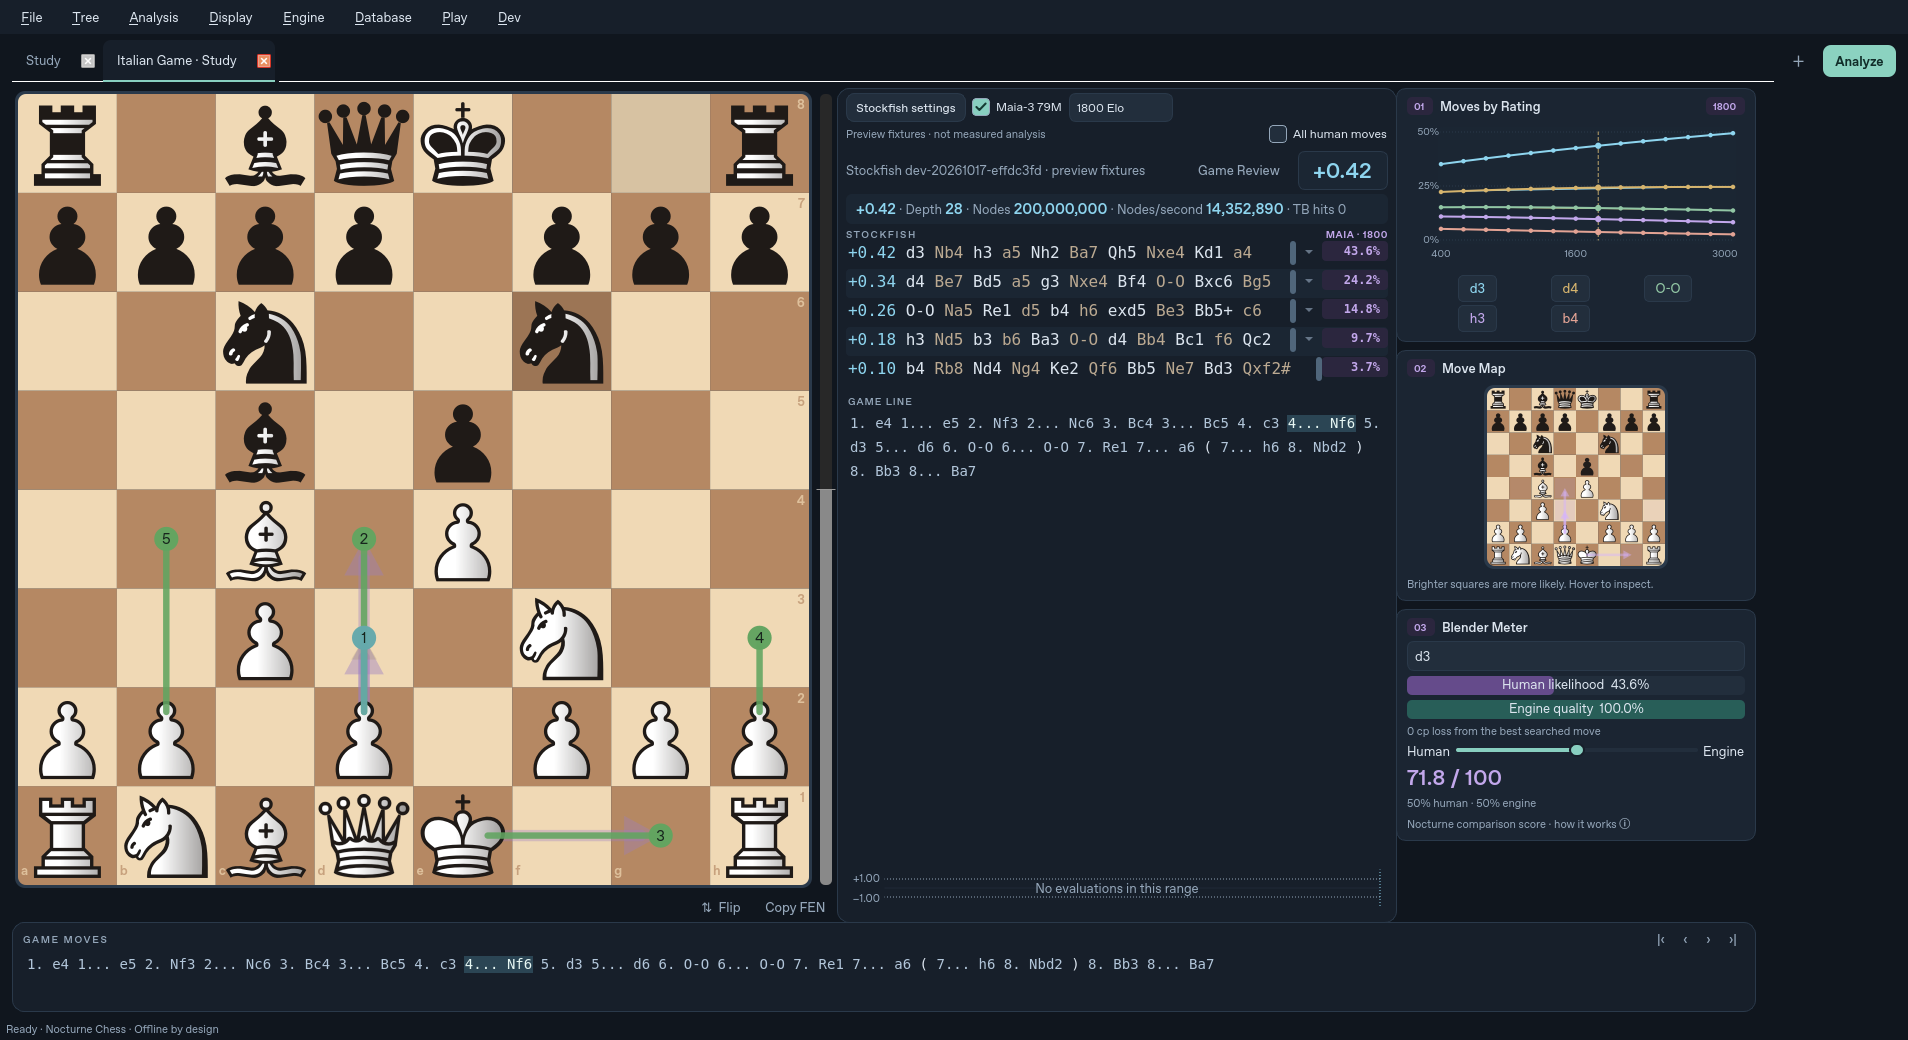
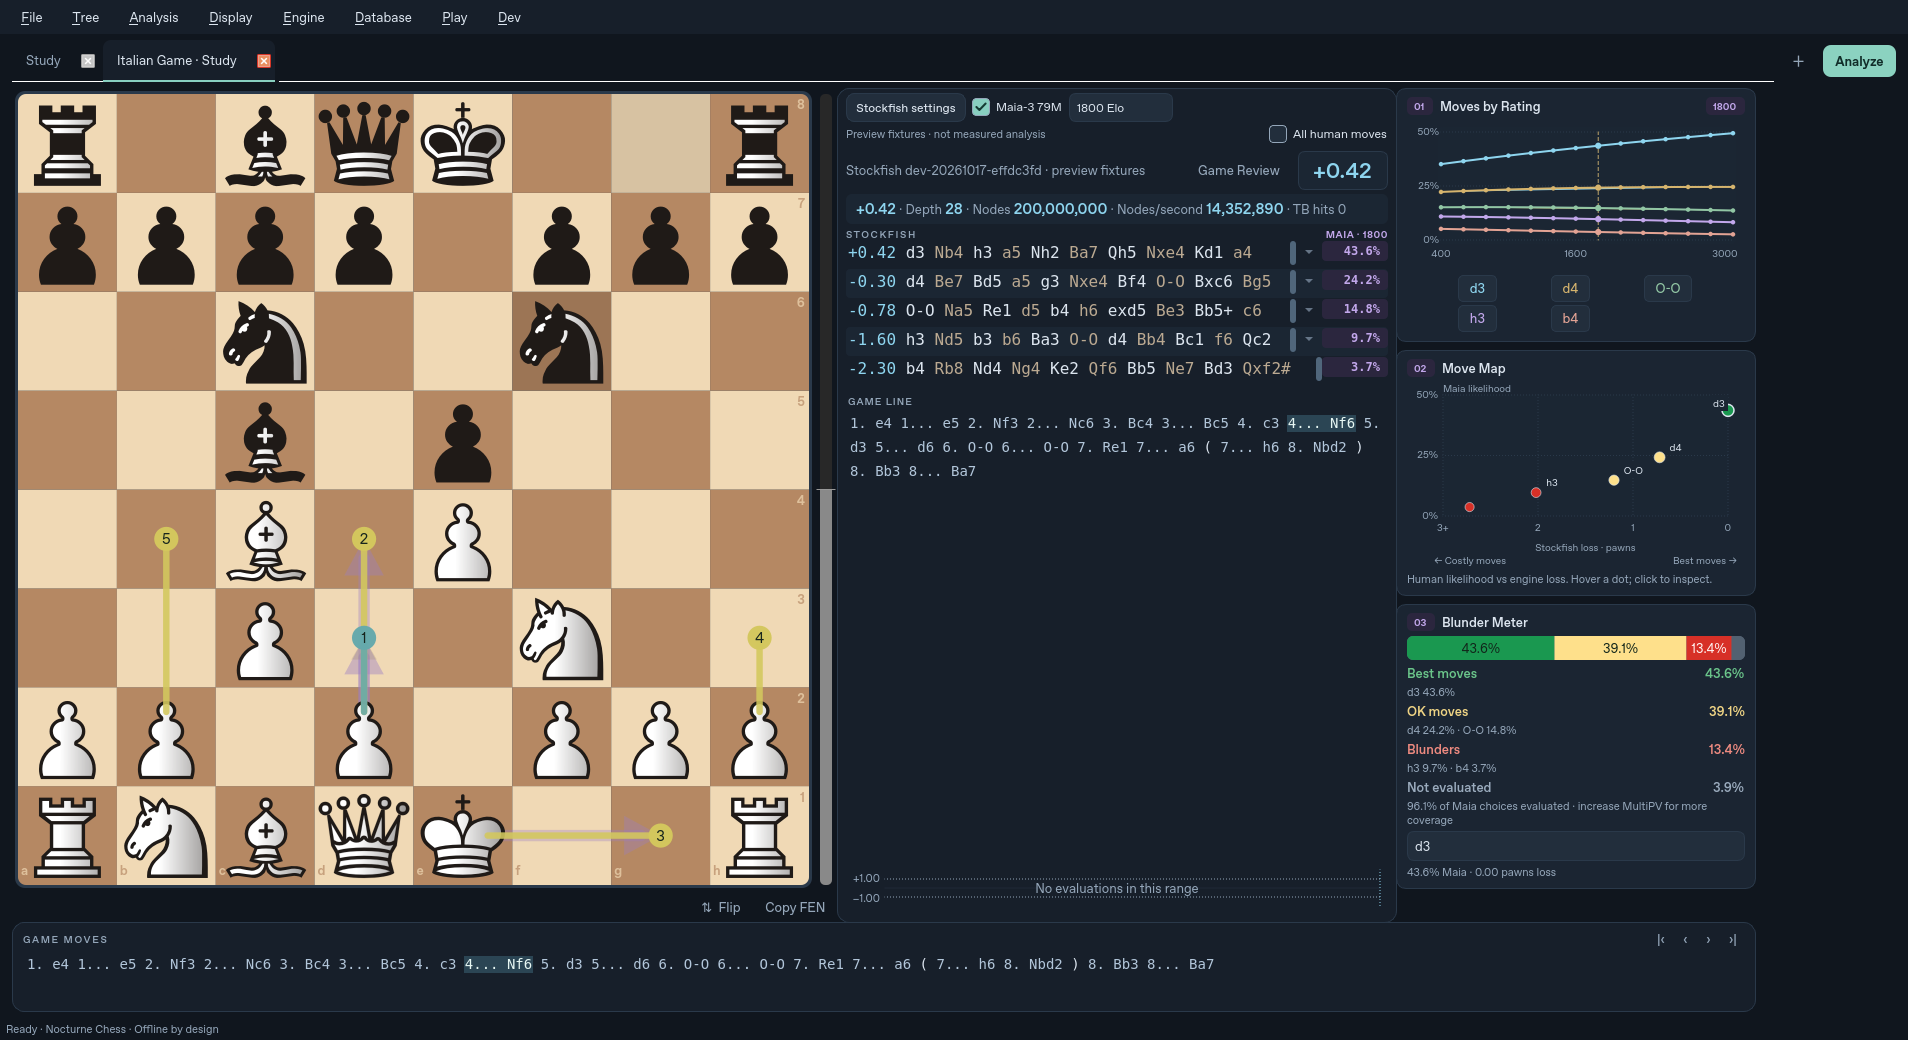
Publish 0.5.7.62 Windows download and Blunder Meter preview

diff --git a/docs/BUILDING.md b/docs/BUILDING.md
@@ -1,5 +1,35 @@
 # Windows 11 desktop builds
 
+## [0.5.7.62 — Download Windows ZIP](https://github.com/understandingothers789-pixel/nocturne-chess/actions/runs/39903683180/artifacts/12480157328)
+
+Extract All, then open **Nocturne/Nocturne.exe**. The executable is unsigned.
+
+Source commit [`9ea262f`](https://github.com/understandingothers789-pixel/nocturne-chess/commit/9ea262fbe8f7f2275b26b6b938167901db5a9d0e)
+replaces the earlier blend comparison with a **Blunder Meter**: a proportional
+green/yellow/red bar, category probabilities and common human choices. Grey
+retains unsearched probability instead of treating moves outside MultiPV as
+blunders or rescaling partial results to 100%. The Move Map becomes a scatter
+plot of Maia likelihood against exact Stockfish loss. Hover shows details;
+clicking selects a move for inspection without playing it. The [Maia guide](MAIA.md)
+documents the 50/150 cp thresholds, provenance and unknown/mate handling.
+
+Eighteen focused Maia/rendering checks passed locally, with two targeted checks
+also passing at 150% display scaling using Qt's offscreen renderer. Coverage
+includes promotion identity, Black's score perspective, exact threshold edges,
+bound/mate exclusions, duplicate root moves, preserved unknown probability and
+scatter-point selection. Dark/light, normal/narrow native UI previews were
+inspected with explicitly labelled fixture data.
+
+Windows run [39903683180](https://github.com/understandingothers789-pixel/nocturne-chess/actions/runs/39903683180)
+passed lint, **268 tests (5 optional skips)**, the official-79M model checks,
+packaging and packaged worker/GUI smoke checks. The live database API check also passed.
+The official model and CPU runtime remain bundled.
+
+Artifact **12480157328**, `Nocturne-0.5.7.62-Windows-x64-unsigned`,
+492,663,481 bytes, expires 2026-11-22T05:09:10Z (UTC).
+GitHub artifact SHA-256:
[1 lines of base64/hex data omitted]
+
 ## [0.5.7.61 — Download Windows ZIP](https://github.com/understandingothers789-pixel/nocturne-chess/actions/runs/39901174812/artifacts/12479113267)
 
 Extract All, then open **Nocturne/Nocturne.exe**. The executable is unsigned.

diff --git a/README.md b/README.md
@@ -19,8 +19,10 @@ source/tests remain for reproducibility; they are excluded from the desktop bund
 
 ![Nocturne's native analysis studio with a prominent board, integrated Stockfish and Maia rows, and three insight cards](docs/studio-ui.png)
 
-*Native Qt UI preview. Engine evaluations and Maia probability curves in this
+*Native Qt UI preview. Engine evaluations and Maia probabilities in this
 capture are explicitly labelled fixtures, not measured chess analysis.*
+
+**[0.5.7.62](https://github.com/understandingothers789-pixel/nocturne-chess/actions/runs/39903683180/artifacts/12480157328): a red–yellow–green Blunder Meter and a useful Move Map.** The Blunder Meter groups Maia's predicted human choices into Best moves, OK moves and Blunders, with unsearched choices in grey and their actual coverage preserved. The Move Map now plots human likelihood against Stockfish loss instead of duplicating the chessboard. Hover points for details or click to inspect a move without playing it. Extract the unsigned Windows ZIP and open `Nocturne/Nocturne.exe`. See the [Maia guide](docs/MAIA.md) and [build receipt](docs/BUILDING.md).
 
 **[0.5.7.61](https://github.com/understandingothers789-pixel/nocturne-chess/actions/runs/39901174812/artifacts/12479113267): a clearer analysis studio.** A coordinated slate, teal and violet palette distinguishes Stockfish from Maia. Compact numbered insight cards, readable probability badges, a prominent evaluation and tighter controls improve scanning. Smaller windows keep the board useful and the Maia percentages visible; light mode receives matching contrast improvements. Extract the unsigned Windows ZIP and open `Nocturne/Nocturne.exe`. See the [build receipt](docs/BUILDING.md).
 
